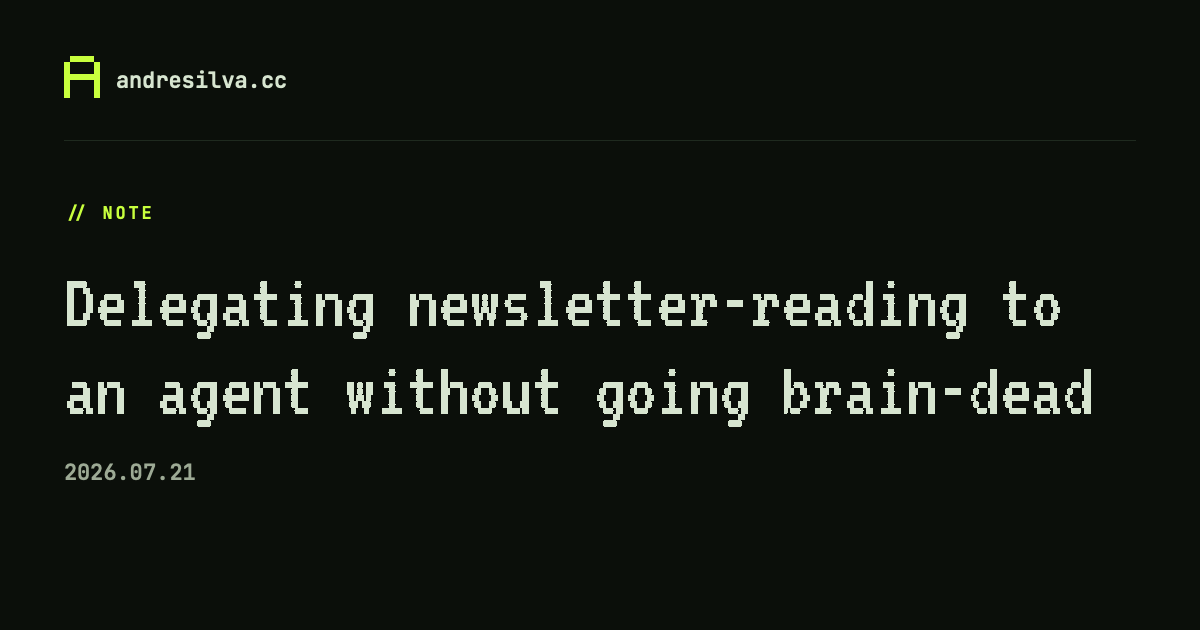
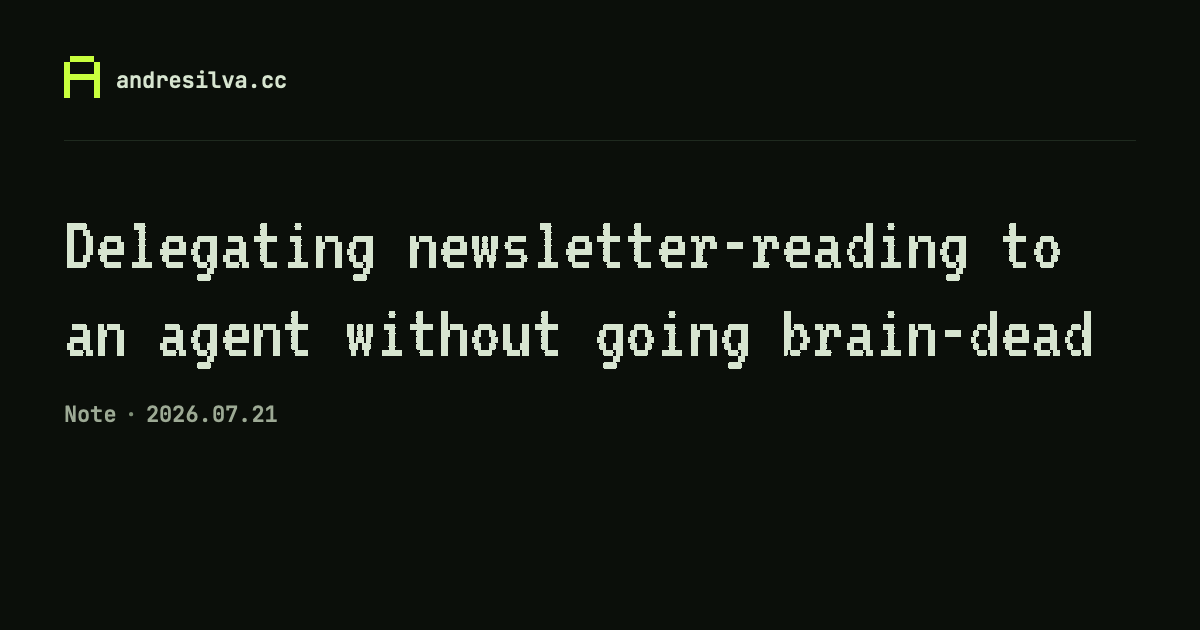
style: drop remaining eyebrow marks (OG cards, last-updated line, resume comment)
OG cards now lead the grey meta line with the content type
(Article · date · read time / Note · date) instead of a lime // eyebrow.

Claude-Session: https://claude.ai/code/session_014RyGsbqcnj8DWF2x9DtLm8

Changed region(s): [[0.0308, 0.3016, 0.925, 0.6937], [0.0617, 0.7238, 0.1542, 0.7841]]

diff --git a/tools/og-note.tsx b/tools/og-note.tsx
@@ -63,8 +63,6 @@ export default function OgNote({
   publishedAt,
 }: Props) {
   const date = formatDate(publishedAt);
-  // Stored in a variable to prevent JSX from treating // as a comment node
-  const eyebrowText = '// note';
 
   return (
     <div
@@ -115,7 +113,7 @@ export default function OgNote({
         }}
       />
 
-      {/* 3. Content cluster — eyebrow + title + meta, flex-column anchored at top:200 */}
+      {/* 3. Content cluster — title + meta, flex-column anchored at top:200 */}
       <div
         style={{
           position: 'absolute',
@@ -126,25 +124,9 @@ export default function OgNote({
           flexDirection: 'column',
         }}
       >
-        {/* 3a. Eyebrow comment-tag "// note" — accent moment #1 */}
-        <span
-          style={{
-            fontFamily: '\'JetBrains Mono\', monospace',
-            fontSize: '17px',
-            fontWeight: 600,
-            color: '#C8FF3D',
-            letterSpacing: '0.16em',
-            textTransform: 'uppercase',
-            lineHeight: 1.5,
-          }}
-        >
-          {eyebrowText}
-        </span>
-
-        {/* 3b. Title — VT323 80px, full width, 2-line clamp */}
+        {/* 3a. Title — VT323 80px, full width, 2-line clamp */}
         <div
           style={{
-            marginTop: '32px',
             fontFamily: '\'VT323\', monospace',
             fontSize: '80px',
             fontWeight: 400,
@@ -162,19 +144,22 @@ export default function OgNote({
           {title}
         </div>
 
-        {/* 3c. Meta line — date only */}
+        {/* 3b. Meta line — type · date */}
         <div
           style={{
             marginTop: '24px',
             display: 'flex',
             flexDirection: 'row',
             alignItems: 'baseline',
+            gap: '8px',
             fontFamily: '\'JetBrains Mono\', monospace',
             fontSize: '22px',
             fontWeight: 500,
             lineHeight: 1.3,
           }}
         >
+          <span style={{ color: '#9DAA95' }}>Note</span>
+          <span style={{ color: '#7E8E76' }}>·</span>
           <span style={{ color: '#9DAA95' }}>{date}</span>
         </div>
       </div>

diff --git a/tools/og-article.tsx b/tools/og-article.tsx
@@ -78,10 +78,10 @@ export default function OgArticle({
   readingTime,
 }: Props) {
   const { date, time } = buildMetaLine(publishedAt, readingTime);
-  // Stored in a variable to prevent JSX from treating // as a comment node
-  const eyebrowText = '// article';
 
   const metaParts: { text: string; isSep?: boolean }[] = [
+    { text: 'Article' },
+    { text: '·', isSep: true },
     { text: date },
     { text: '·', isSep: true },
     { text: time },
@@ -136,7 +136,7 @@ export default function OgArticle({
         }}
       />
 
-      {/* 3. Content cluster — eyebrow + title + meta, flex-column anchored at top:200 */}
+      {/* 3. Content cluster — title + meta, flex-column anchored at top:200 */}
       <div
         style={{
           position: 'absolute',
@@ -147,25 +147,9 @@ export default function OgArticle({
           flexDirection: 'column',
         }}
       >
-        {/* 3a. Eyebrow comment-tag "// article" — accent moment #1 */}
-        <span
-          style={{
-            fontFamily: '\'JetBrains Mono\', monospace',
-            fontSize: '17px',
-            fontWeight: 600,
-            color: '#C8FF3D',
-            letterSpacing: '0.16em',
-            textTransform: 'uppercase',
-            lineHeight: 1.5,
-          }}
-        >
-          {eyebrowText}
-        </span>
-
-        {/* 3b. Title — VT323 80px, full width, 2-line clamp */}
+        {/* 3a. Title — VT323 80px, full width, 2-line clamp */}
         <div
           style={{
-            marginTop: '32px',
             fontFamily: '\'VT323\', monospace',
             fontSize: '80px',
             fontWeight: 400,
@@ -183,7 +167,7 @@ export default function OgArticle({
           {title}
         </div>
 
-        {/* 3c. Meta line — date · readingTime */}
+        {/* 3b. Meta line — type · date · readingTime */}
         <div
           style={{
             marginTop: '24px',

diff --git a/src/app/resume/_components/section-heading.tsx b/src/app/resume/_components/section-heading.tsx
@@ -4,19 +4,7 @@ export interface SectionHeadingProps {
   children: ReactNode;
 }
 
-/*
- * SectionHeading — the site's section-marking language (section-head.tsx:
- * an eyebrow, an H2, a bottom rule) collapsed for paper. The two-line
- * eyebrow is dropped outright — unaffordable at this density, and its
- * editorial "// nn / phrasing" register doesn't belong on a resume —
- * rather than compressed into a mark glyph or an uppercase treatment.
- * On the site the bottom rule alone marks a section boundary and a
- * section title (as opposed to a subordinate label like a table header
- * or the About page's Facts keys) is always sentence case — see
- * about/page.tsx's "Bio" / "Education" / "Facts". The heading only
- * shrank to 10.5pt for print economy; that doesn't demote what it is,
- * so this stays sentence case with no eyebrow-style letterspacing.
- */
+// The site's SectionHead (H2 + one rule) at print size; sentence case, no letterspacing.
 export function SectionHeading({ children }: SectionHeadingProps) {
   return (
     <>

diff --git a/src/app/(site)/articles/[slug]/page.tsx b/src/app/(site)/articles/[slug]/page.tsx
@@ -103,7 +103,7 @@ export default async function ArticlePage({
     'isPartOf': { '@type': 'Blog', 'name': 'andresilva.cc/articles' },
   };
 
-  const updatedPrefix = formattedUpdated ? `// last updated ${formattedUpdated}` : null;
+  const updatedPrefix = formattedUpdated ? `Last updated ${formattedUpdated}` : null;
 
   return (
     <article>

diff --git a/docs/architecture.md b/docs/architecture.md
@@ -437,7 +437,7 @@ LocalNotesRepository (sync)  ──▶  /notes, /notes/page/<n>, /notes/<slug>, 
 - **Derived fields in `transform()`**: `slug` (from filename via `s.path()`, validated against the same lowercase kebab-case `SLUG_RE` and `SLUG_MAX_LEN = 60` constants reused from the article collection), `excerpt` (a plaintext, markdown-stripped ~140-char preview of the body, used as the `<description>` in the notes RSS feed — falls back to the title when the body is code-only), and `ogImage` (`/og/notes/<slug>.png` — see below). No `wordCount` / `readingTime`.
 - **Body compilation**: same MDX pipeline as articles — `@mdx-js/mdx` compile to function-body string; same rehype stack (`rehype-unwrap-images` first, then `rehype-pretty-code` with the `brutalist-mono` Shiki theme); GFM via Velite's built-in default. No component restrictions in the page-level MDX components map.
 - **Assets**: rare per-note media lives in `src/content/notes/_assets/<slug>/`, picked up by Velite's asset handler and emitted under `public/static/` with content hashing (same path as article images).
-- **OG image (per-note)**: `tools/og-note.tsx` is the per-note OG template — same brutalist-mono layout as `tools/og-article.tsx`, but with eyebrow `// note` and a simplified meta strip (date only, no read time, no cover art). Props: `{ title, publishedAt }`. Generated by the same `scripts/og/generate.mjs` prebuild step as articles (see §7 above) and written to `public/og/notes/<slug>.png`. Same idempotency rule, same `SKIP_OG_BUILD` escape hatch, same commit-the-PNGs decision (PNGs ship in git because Playwright/WebKit can't run on Vercel's build container — see §12).
+- **OG image (per-note)**: `tools/og-note.tsx` is the per-note OG template — same brutalist-mono layout as `tools/og-article.tsx`, but with a simplified grey meta line that leads with the content type (`Note · 2026.06.02`, vs. the article's `Article · 2024.07.10 · 4 min`; no read time, no cover art). Neither template renders an eyebrow above the title. Props: `{ title, publishedAt }`. Generated by the same `scripts/og/generate.mjs` prebuild step as articles (see §7 above) and written to `public/og/notes/<slug>.png`. Same idempotency rule, same `SKIP_OG_BUILD` escape hatch, same commit-the-PNGs decision (PNGs ship in git because Playwright/WebKit can't run on Vercel's build container — see §12).
 - **Authoring ergonomics (optional)**: a `pnpm notes:new <slug>` scaffolder may create a stub `src/content/notes/<slug>.mdx` with today's date and a `kind` prompt. Author-side convenience only — no architectural significance, no counter, no slug allocator. Slugs are author-chosen kebab-case.
 
 ### Resume PDF pipeline

diff --git a/docs/ui-spec.md b/docs/ui-spec.md
@@ -271,7 +271,7 @@ A 2-column grid at `md+` (`grid-cols-article-card` — 240px left, body right) *
 2. **Identity cluster** (page header)
    - **H1 title** — `Text variant="h1"` in `--fg`. **Not** `t-display` / VT323 — the display register is reserved for the Home identity moment (standing rule). Article titles get the standard h1 mono treatment so 50+ posts at varying lengths read consistently.
    - **Summary** — `Text variant="body"`, `--fg-muted`, capped at `--prose-w-wide` (matches the body column below).
-   - **Meta strip** — single `<p>` with `<time dateTime>` (in `--fg-muted`) followed by `·` and `${readingTime} min` (in `--fg-subtle`). **No tags inline** (Q1 reversal — tags render as chips in the footer only). Optional second meta line `// last updated {date}` in italic `--fg-subtle` when `updatedAt` is set.
+   - **Meta strip** — single `<p>` with `<time dateTime>` (in `--fg-muted`) followed by `·` and `${readingTime} min` (in `--fg-subtle`). **No tags inline** (Q1 reversal — tags render as chips in the footer only). Optional second meta line `Last updated {date}` in italic `--fg-subtle` when `updatedAt` is set.
 3. **Cover art** (optional — only when `article.coverArt` is present in frontmatter)
    - Preceded by a `<hr>` rule (8px top margin) to separate the identity cluster from the visual.
    - `<section aria-label="Cover art">` containing a `.article-cover-art` frame: `border border-rule bg-canvas`, `overflow-hidden`, `max-w-prose-wide`, aspect ratio `16 / 7` on desktop and `4 / 3` on mobile (set in `globals.css`). Standing rule 19 — identity surface keeps the border even though the art is transparent.

diff --git a/docs/copy-guide.md b/docs/copy-guide.md
@@ -40,7 +40,7 @@ The guide is **descriptive** — it captures what is. When a surface comes up th
 
 ## 2. No eyebrows
 
-Section H2s, page titles, and article/note titles stand alone. No `// NN / phrase` labels above headings — they were removed site-wide (2026-11) because the numbered mono eyebrow reads as a generated-template tell and mostly restated the heading. Don't reintroduce them. OG cards (`tools/og-*.tsx`) still carry `// article` / `// note`; that's an image convention, not a site one.
+Section H2s, page titles, and article/note titles stand alone. No `// NN / phrase` labels above headings — they were removed site-wide (2026-11) because the numbered mono eyebrow reads as a generated-template tell and mostly restated the heading. Don't reintroduce them. OG cards (`tools/og-*.tsx`) name the content type as the first item of the grey meta line (`Article · 2024.07.10 · 4 min`, `Note · 2026.06.02`), not as an eyebrow.
 
 ---
 
